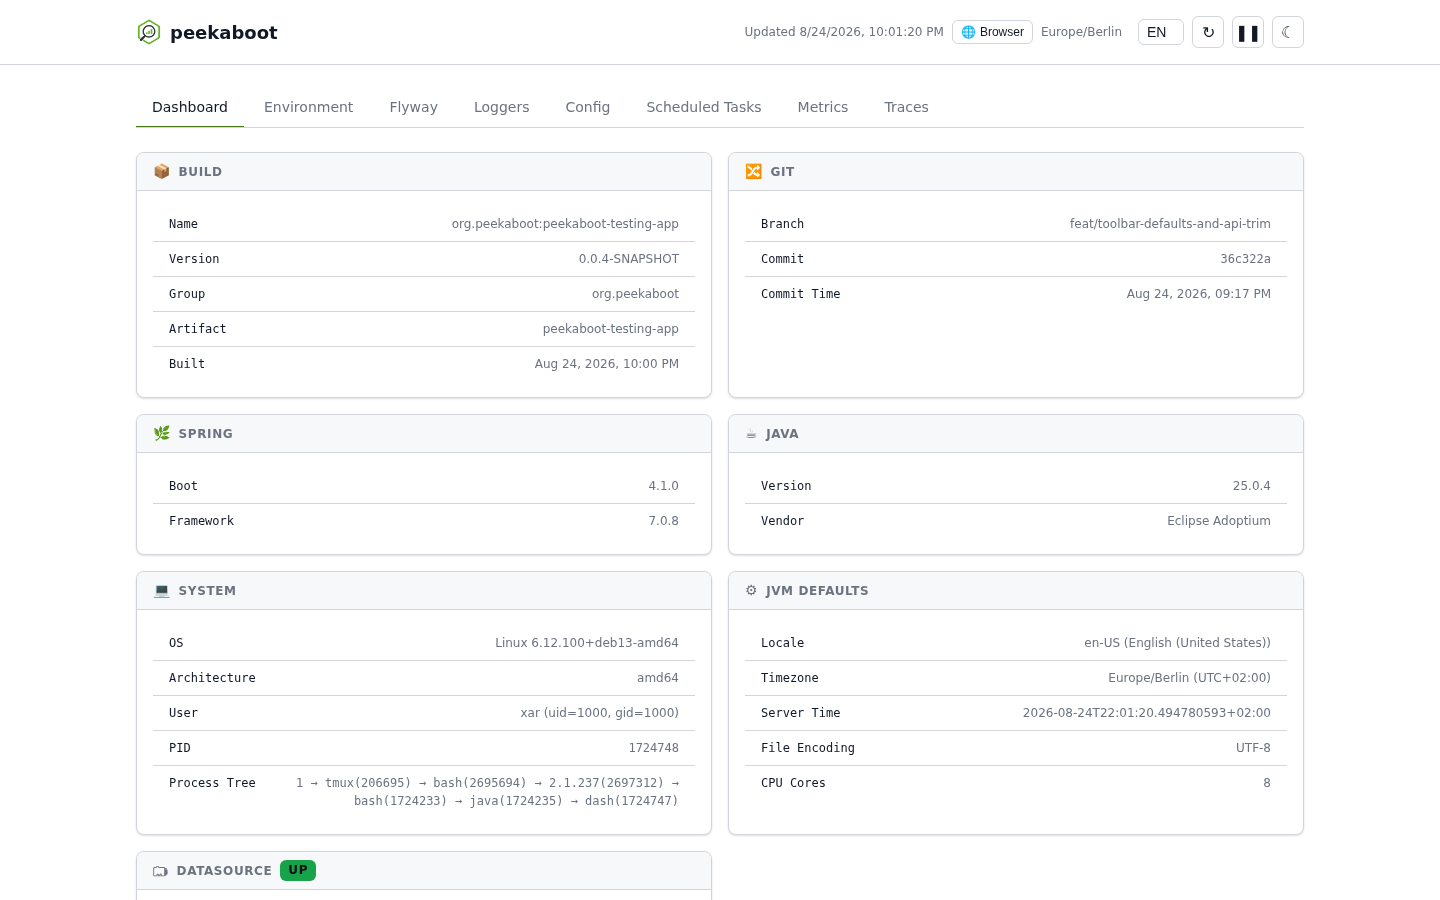
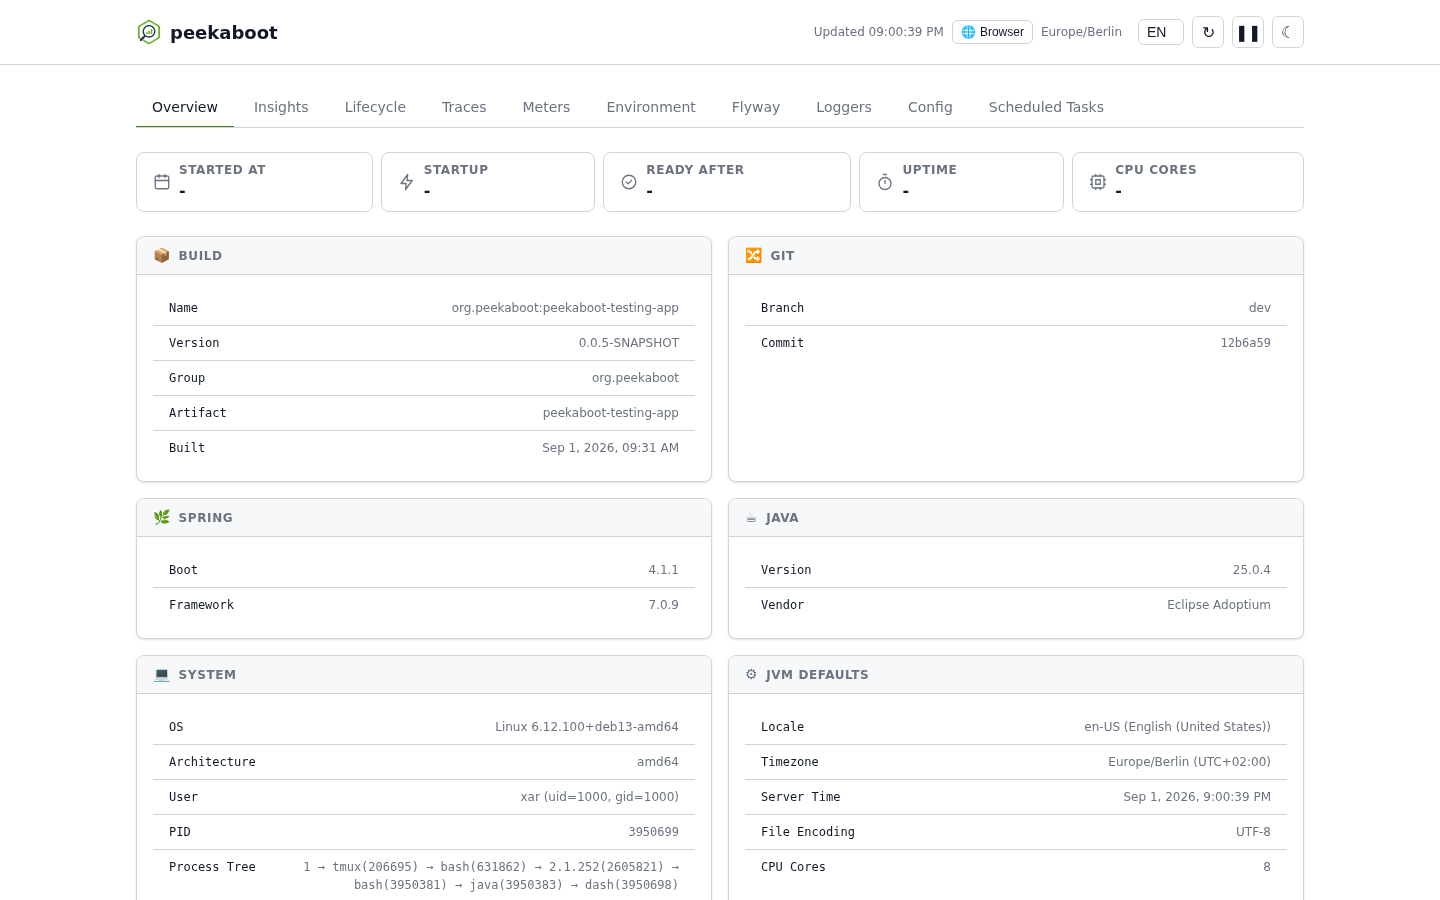
docs(screenshots): capture the Lifecycle and Insights tabs and refresh the README image

diff --git a/peekaboot-testing-app/src/test/java/org/peekaboot/testingapp/ui/ScreenshotCapture.java b/peekaboot-testing-app/src/test/java/org/peekaboot/testingapp/ui/ScreenshotCapture.java
@@ -9,7 +9,12 @@ import java.util.ArrayList;
 import java.util.List;
 import java.util.Map;
 import org.junit.jupiter.api.Test;
+import org.junit.jupiter.api.io.TempDir;
+import org.peekaboot.backend.lifecycle.LifecycleEventFile;
+import org.springframework.test.annotation.DirtiesContext;
 import org.springframework.test.context.ActiveProfiles;
+import org.springframework.test.context.DynamicPropertyRegistry;
+import org.springframework.test.context.DynamicPropertySource;
 
 /**
  * Captures the screenshots the peekaboot.org website ships. A tool, not a test: it asserts
@@ -24,7 +29,15 @@ import org.springframework.test.context.ActiveProfiles;
  *
  * <p>Runs under the {@code screenshots} profile (real Postgres via Docker Compose, Flyway
  * on) so every dashboard tab has genuine content. Docker must be running.
+ *
+ * <p>The Lifecycle tab gets a seeded run history the same way {@link LifecycleTabIT} does
+ * (storage on, pointed at a temp directory holding a {@link LifecycleHistoryFixture}): a
+ * JUnit launch is never a local run, so storage is off under this profile and the tab
+ * would otherwise photograph the application's own run as its only row. The context is
+ * closed with the class for the reason {@code LifecycleTabIT} gives: the storage
+ * directory dies with the class, and a cached context would keep writing into it.
  */
+@DirtiesContext(classMode = DirtiesContext.ClassMode.AFTER_CLASS)
 // inheritProfiles = false: PlaywrightTestBase carries @ActiveProfiles("test") - merging
 // that in (the default) would activate both "test" and "screenshots" and, since Spring
 // Boot's last-profile-wins rule applies to the *resolved* order rather than declaration
@@ -38,13 +51,24 @@ class ScreenshotCapture extends PlaywrightTestBase {
     private static final int VIEWPORT_WIDTH = 1440;
     private static final int VIEWPORT_HEIGHT = 900;
 
-    // Insights is deliberately not in this list: its SSE-driven charts are a separate
-    // capture concern from this tool's simple "render() has produced real data" wait,
-    // and it was never part of this tool's captured surface even before the Overview/
-    // Meters rename - out of scope here. The remaining tabs are ordered to match the
-    // tab strip's own order (see dashboard/main.js's TABS array).
-    private static final List<String> DASHBOARD_TABS =
-            List.of("overview", "traces", "meters", "environment", "flyway", "loggers", "config", "scheduled-tasks");
+    // Insights is deliberately not in this list: its charts fill from a ring the server
+    // samples on a fixed cadence, so it is captured last, once that ring holds enough
+    // history to draw a line (see captureInsights) - not in strip order between Overview
+    // and Lifecycle, which would photograph a chart with one or two points. The tabs
+    // here are ordered to match the tab strip's own order (see dashboard/main.js's TABS
+    // array).
+    private static final List<String> DASHBOARD_TABS = List.of(
+            "overview",
+            "lifecycle",
+            "traces",
+            "meters",
+            "environment",
+            "flyway",
+            "loggers",
+            "config",
+            "scheduled-tasks");
+
+    private static final String INSIGHTS_TAB = "insights";
 
     /**
      * The selector each tab waits for beyond "panel active" before it counts as rendered
@@ -54,6 +78,7 @@ class ScreenshotCapture extends PlaywrightTestBase {
      */
     private static final Map<String, String> TAB_READY_SELECTOR = Map.of(
             "overview", "#memory-info .pk-meter__fill",
+            "lifecycle", "#lifecycle-runs .pk-lifecycle-table tbody tr",
             "environment", "#property-sources .pk-group__header",
             "flyway", "#flyway-timeline .pk-table tbody tr",
             "loggers", "#loggers-list .pk-group",
@@ -120,12 +145,39 @@ class ScreenshotCapture extends PlaywrightTestBase {
     private static final String MASKED_VALUE = "******";
 
     /**
+     * Seven seeded runs plus the application's own fit on the Lifecycle tab's first page
+     * of 20, and between them show every badge the tab has: Running (the application's
+     * own run), Unclean exit with a dash duration (run 2) and the dash downtime after
+     * it, and Deployment for a version change (run 4) and a branch-and-commit change
+     * (run 6). See {@link LifecycleHistoryFixture} for what each index means.
+     */
+    private static final LifecycleHistoryFixture LIFECYCLE_HISTORY = new LifecycleHistoryFixture(7, 2, 4, 6);
+
+    /**
+     * How many level-0 samples the Insights ring must hold before its charts are
+     * photographed. The tab renders a chart as soon as any sample exists, but one or two
+     * points on a full-width axis read as a broken chart; a dozen at the profile's level-0
+     * interval (the defaults' 10 s, so about two minutes of history) draws a real line.
+     */
+    private static final int MIN_INSIGHTS_SAMPLES = 12;
+
+    /**
      * The traceId of the flagship /orders N+1 request, captured straight from that
      * response's own toolbar payload in {@link #generateTraffic()} - see the field's use
      * in {@link #captureDashboardTabs} for why this is not simply "click the first item
      * in the traces list".
      */
     private String flagshipTraceId;
+
+    @TempDir
+    static Path storageDir;
+
+    @DynamicPropertySource
+    static void lifecycleStorage(DynamicPropertyRegistry registry) {
+        LIFECYCLE_HISTORY.writeTo(storageDir.resolve(LifecycleEventFile.FILE_NAME));
+        registry.add("peekaboot.storage.enabled", () -> "true");
+        registry.add("peekaboot.storage.dir", () -> storageDir.toString());
+    }
 
     @Override
     protected Page browserContextPage() {
@@ -138,9 +190,16 @@ class ScreenshotCapture extends PlaywrightTestBase {
     void captureEverySurfaceInBothThemes() throws Exception {
         Path outputDir = resolveOutputDir();
 
-        for (String theme : List.of("light", "dark")) {
+        List<String> themes = List.of("light", "dark");
+        for (String theme : themes) {
             captureDashboardTabs(outputDir, theme);
             captureToolbar(outputDir, theme);
+        }
+        // last on purpose: everything above is history for the Insights ring to chart
+        // (see MIN_INSIGHTS_SAMPLES), and the traffic it generated is what the HTTP and
+        // datasource panels have to show
+        for (String theme : themes) {
+            captureInsights(outputDir, theme);
         }
 
         assertThat(outputDir).isDirectoryContaining(path -> path.toString().endsWith(".png"));
@@ -206,19 +265,90 @@ class ScreenshotCapture extends PlaywrightTestBase {
 
     /**
      * Fails loudly, naming every missing/hidden tab, rather than letting a later
-     * page.click() time out on a selector that quietly never existed. meters and traces
-     * are gated on GET /api/features; a silently absent button would otherwise look like an
-     * ordinary Playwright timeout with no clue which tab caused it.
+     * page.click() time out on a selector that quietly never existed. insights, meters
+     * and traces are gated on GET /api/features; a silently absent button would otherwise
+     * look like an ordinary Playwright timeout with no clue which tab caused it.
      */
     private void assertAllTabButtonsVisible() {
         List<String> missing = new ArrayList<>();
-        for (String tabId : DASHBOARD_TABS) {
+        List<String> expected = new ArrayList<>(DASHBOARD_TABS);
+        expected.add(INSIGHTS_TAB);
+        for (String tabId : expected) {
             if (!page.isVisible(".pk-tab[data-tab=\"" + tabId + "\"]")) {
                 missing.add(tabId);
             }
         }
         if (!missing.isEmpty()) {
             throw new IllegalStateException("dashboard tab button(s) missing or hidden, cannot capture: " + missing);
+        }
+    }
+
+    /**
+     * Photographs the Insights tab once its ring holds {@link #MIN_INSIGHTS_SAMPLES}
+     * level-0 samples and every panel in the viewport has either drawn its chart or
+     * declared itself empty. A chart exists as soon as uPlot has built it, so the wait is
+     * for a canvas with a real width, not merely for the element; below-the-fold panels
+     * are created lazily on scroll and are not part of the shot.
+     */
+    private void captureInsights(Path outputDir, String theme) {
+        newThemedPage(theme);
+        openDashboard();
+        waitForInsightsHistory();
+
+        page.click(".pk-tab[data-tab=\"" + INSIGHTS_TAB + "\"]");
+        page.waitForSelector("#" + INSIGHTS_TAB + "-tab.active");
+        page.waitForFunction("""
+                () => {
+                    const inViewport = el => {
+                        const box = el.getBoundingClientRect();
+                        return box.bottom > 0 && box.top < window.innerHeight;
+                    };
+                    const panels = Array.from(document.querySelectorAll('#insights-panels .pk-insight-panel'))
+                        .filter(inViewport);
+                    return panels.length > 0 && panels.every(panel =>
+                        panel.querySelector('.pk-insight-empty')
+                            || Array.from(panel.querySelectorAll('canvas')).some(canvas => canvas.width > 0));
+                }
+                """, null, new Page.WaitForFunctionOptions().setTimeout(15000));
+        shoot(outputDir, "dashboard-" + INSIGHTS_TAB + "-" + theme);
+    }
+
+    /**
+     * Blocks until level 0 of the Insights ring holds {@link #MIN_INSIGHTS_SAMPLES}
+     * samples, asking the same endpoint the tab itself loads its history from. The budget
+     * is derived from the configured level-0 interval rather than assumed: a dozen ticks
+     * plus one for the one in flight, so a profile with a slower cadence waits
+     * proportionally longer instead of failing.
+     *
+     * <p>Polled with {@code page.evaluate} in a plain loop, not {@code waitForFunction}:
+     * the predicate has to await a fetch, and waitForFunction does not await an async
+     * predicate's result - the pending Promise itself is truthy, so such a wait "passes"
+     * on its first poll (verified on a first attempt at this, which photographed charts
+     * holding three points).
+     */
+    private void waitForInsightsHistory() {
+        Number intervalMs = (Number) page.evaluate("""
+                async () => {
+                    const response = await fetch('/peekaboot/api/insights/config');
+                    return (await response.json()).levels[0].intervalMs;
+                }
+                """);
+        long deadline = System.currentTimeMillis() + intervalMs.longValue() * (MIN_INSIGHTS_SAMPLES + 1);
+        while (true) {
+            Number count = (Number) page.evaluate("""
+                    async () => {
+                        const response = await fetch('/peekaboot/api/insights/data?level=0');
+                        return (await response.json()).count;
+                    }
+                    """);
+            if (count.intValue() >= MIN_INSIGHTS_SAMPLES) {
+                return;
+            }
+            if (System.currentTimeMillis() > deadline) {
+                throw new IllegalStateException("insights level 0 still holds only " + count + " of the "
+                        + MIN_INSIGHTS_SAMPLES + " samples required for a chart worth photographing");
+            }
+            page.waitForTimeout(1000);
         }
     }
 

diff --git a/peekaboot-testing-app/README.md b/peekaboot-testing-app/README.md
@@ -94,7 +94,12 @@ pick it up and a normal `mvn test` never runs it or touches Docker.
 It runs under the `screenshots` profile (`application-screenshots.yml`), which points at the
 real PostgreSQL container from `compose.yml` with Flyway on, so the Flyway, Config,
 Environment and Traces tabs all show genuine content instead of an empty in-memory H2 state.
-**Docker must be running.**
+**Docker must be running.** The Lifecycle tab is photographed against a seeded run history
+(`LifecycleHistoryFixture`, shared with `LifecycleTabIT`), since a JUnit launch has storage
+off and would otherwise show the application's own run as the tab's only row. Insights is
+captured last, once its ring holds a dozen level-0 samples - about two minutes at the
+default 10s interval - so a chart shows a real line instead of a first point; expect a run
+to take a few minutes.
 
 ```bash
 mvn -pl peekaboot-testing-app test -Dtest=ScreenshotCapture \
@@ -102,12 +107,20 @@ mvn -pl peekaboot-testing-app test -Dtest=ScreenshotCapture \
 ```
 
 The output directory is required (the tool refuses to guess) and is created if missing. A
-successful run writes 26 PNGs, each in light and dark: one per dashboard tab (8), the
-trace-detail overlay's Spans and Queries views (2), the collapsed toolbar (1), and a revealed
-counterpart of the Environment and Config tab shots (2) showing the `spring.datasource.password`
-fixture after the "Show secrets" control is clicked - see
-`ScreenshotCapture.MASKED_GROUP_HEADER_SELECTOR`'s doc comment for exactly which group that is
-and isn't, and why.
+successful run writes 30 PNGs, each in light and dark: one per dashboard tab (10, Insights
+and Lifecycle included), the trace-detail overlay's Spans and Queries views (2), the
+collapsed toolbar (1), and a revealed counterpart of the Environment and Config tab shots (2)
+showing the `spring.datasource.password` fixture after the "Show secrets" control is
+clicked - see `ScreenshotCapture.MASKED_GROUP_HEADER_SELECTOR`'s doc comment for exactly
+which group that is and isn't, and why.
+
+The tool's file names are canonical and follow the dashboard's own tab ids:
+`dashboard-<tab>-<theme>.png` (`overview`, `insights`, `lifecycle`, `traces`, `meters`,
+`environment`, `flyway`, `loggers`, `config`, `scheduled-tasks`),
+`dashboard-<environment|config>-revealed-<theme>.png`, `trace-detail-<theme>.png`,
+`trace-detail-queries-<theme>.png` and `toolbar-collapsed-<theme>.png`. The website's
+`assets/img/screenshots/` carries these names verbatim - when a tab id changes here, the
+site's files and `<img>` references are renamed to match, never the other way around.
 
 `docs/images/dashboard.png` at the product repo root is a byte-identical copy of this tool's
 `dashboard-overview-light.png` output, checked into the website repo's
